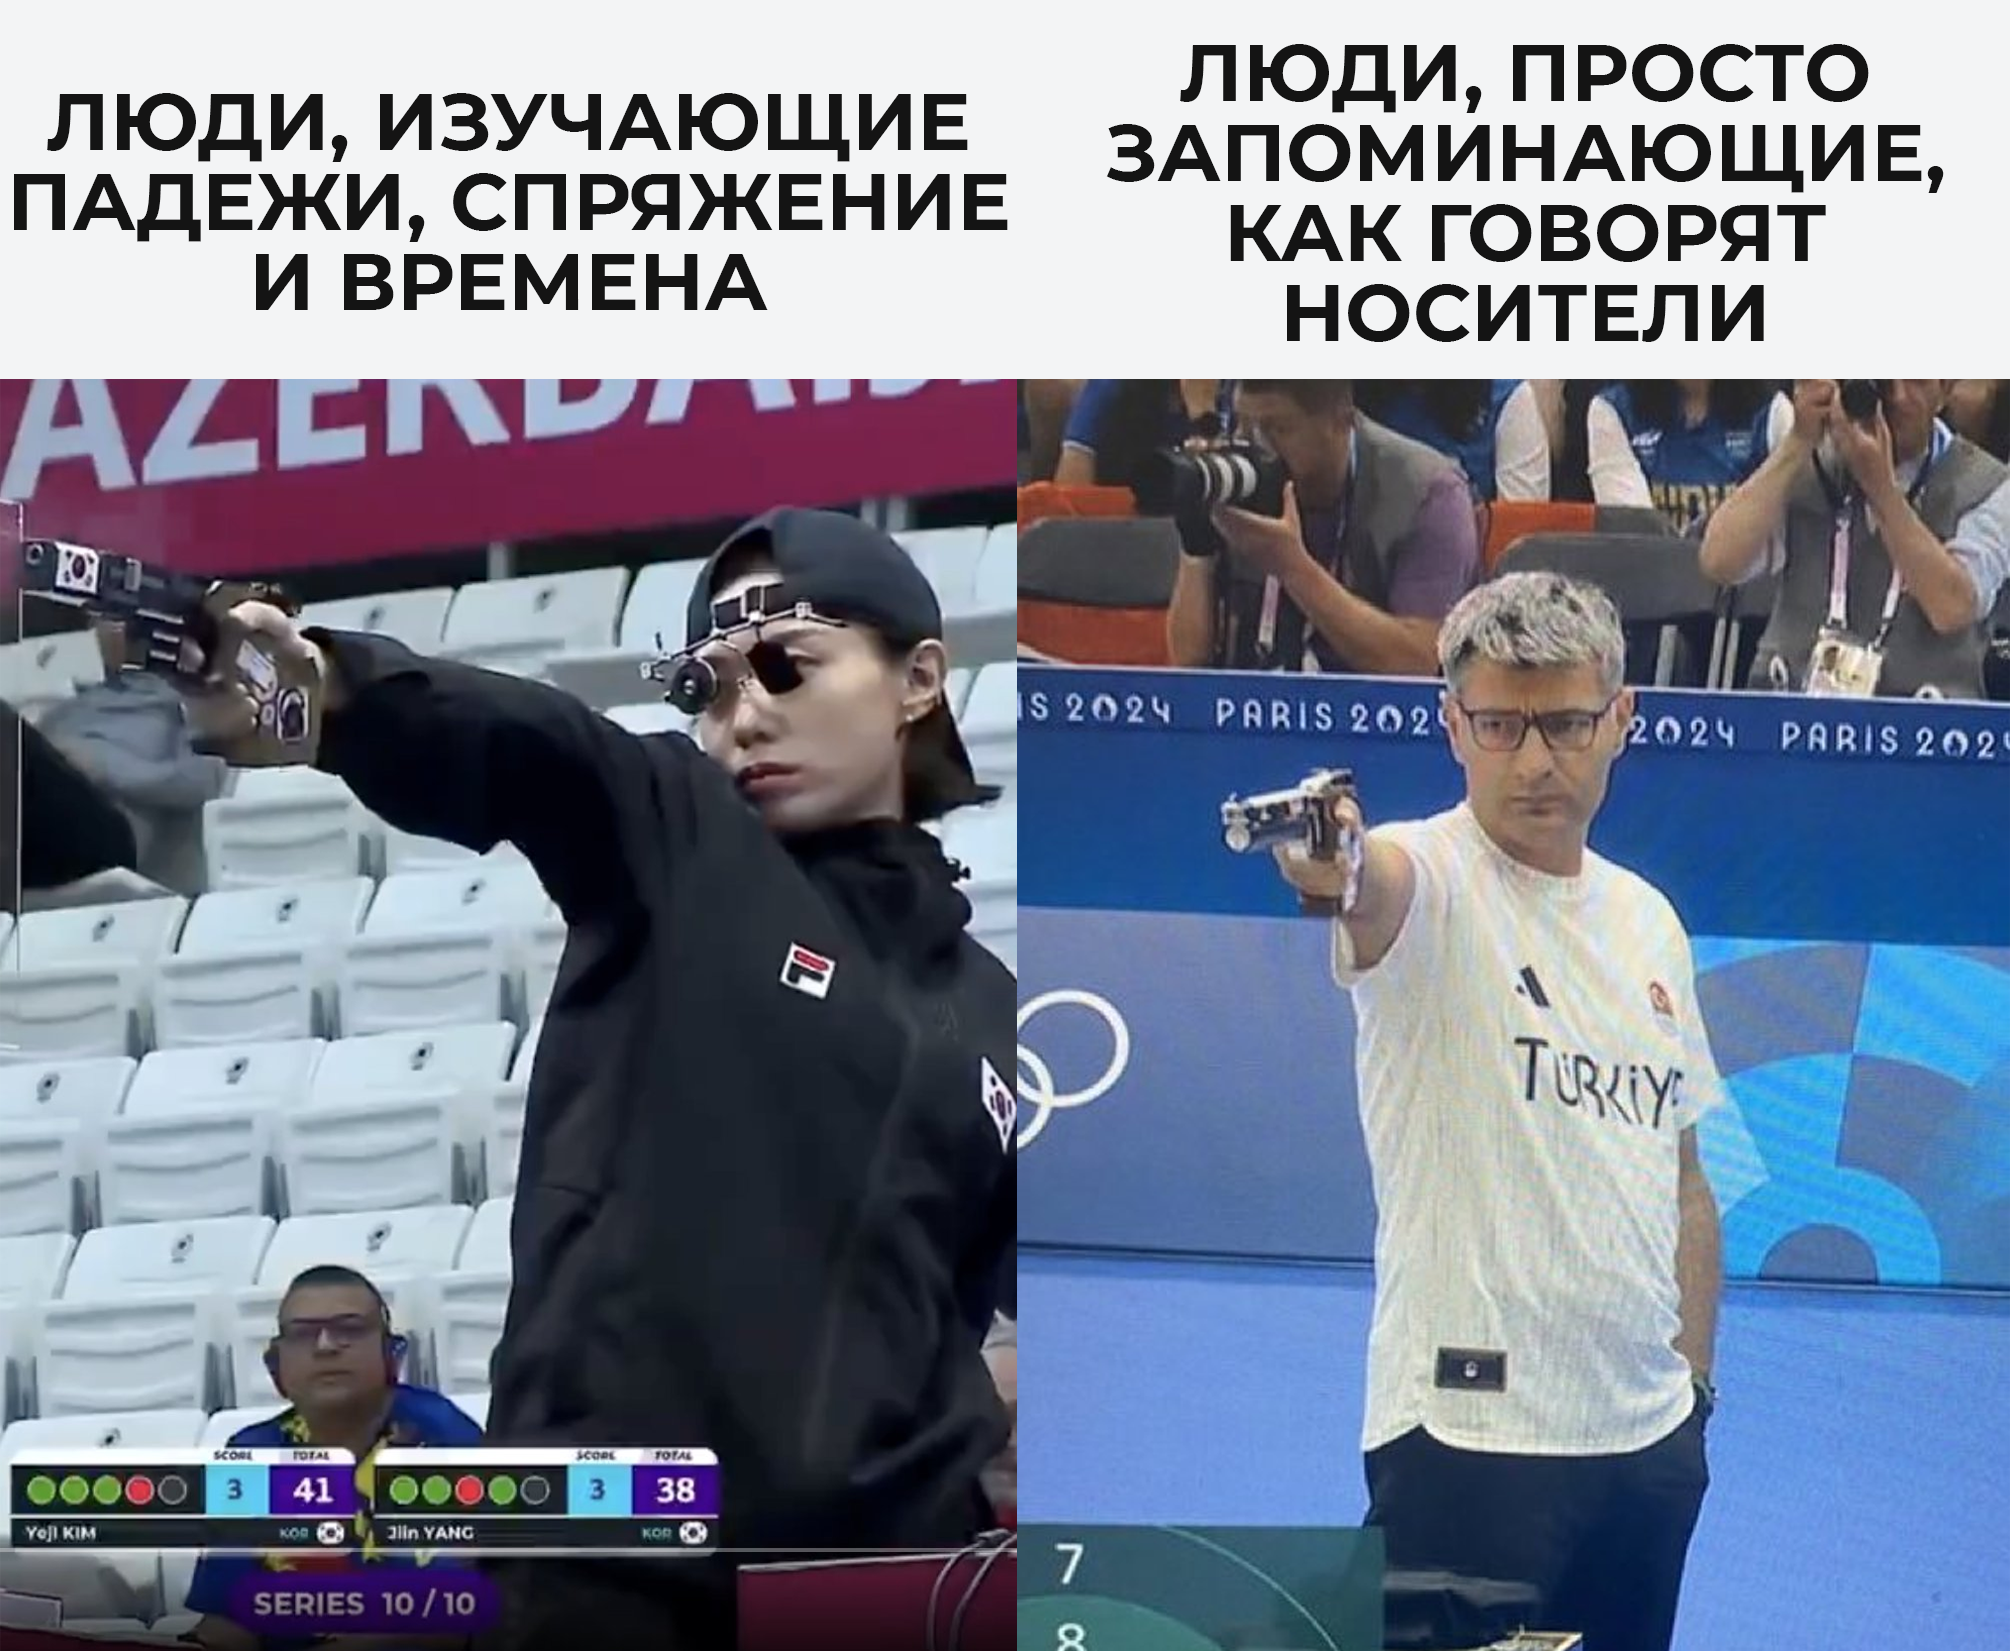
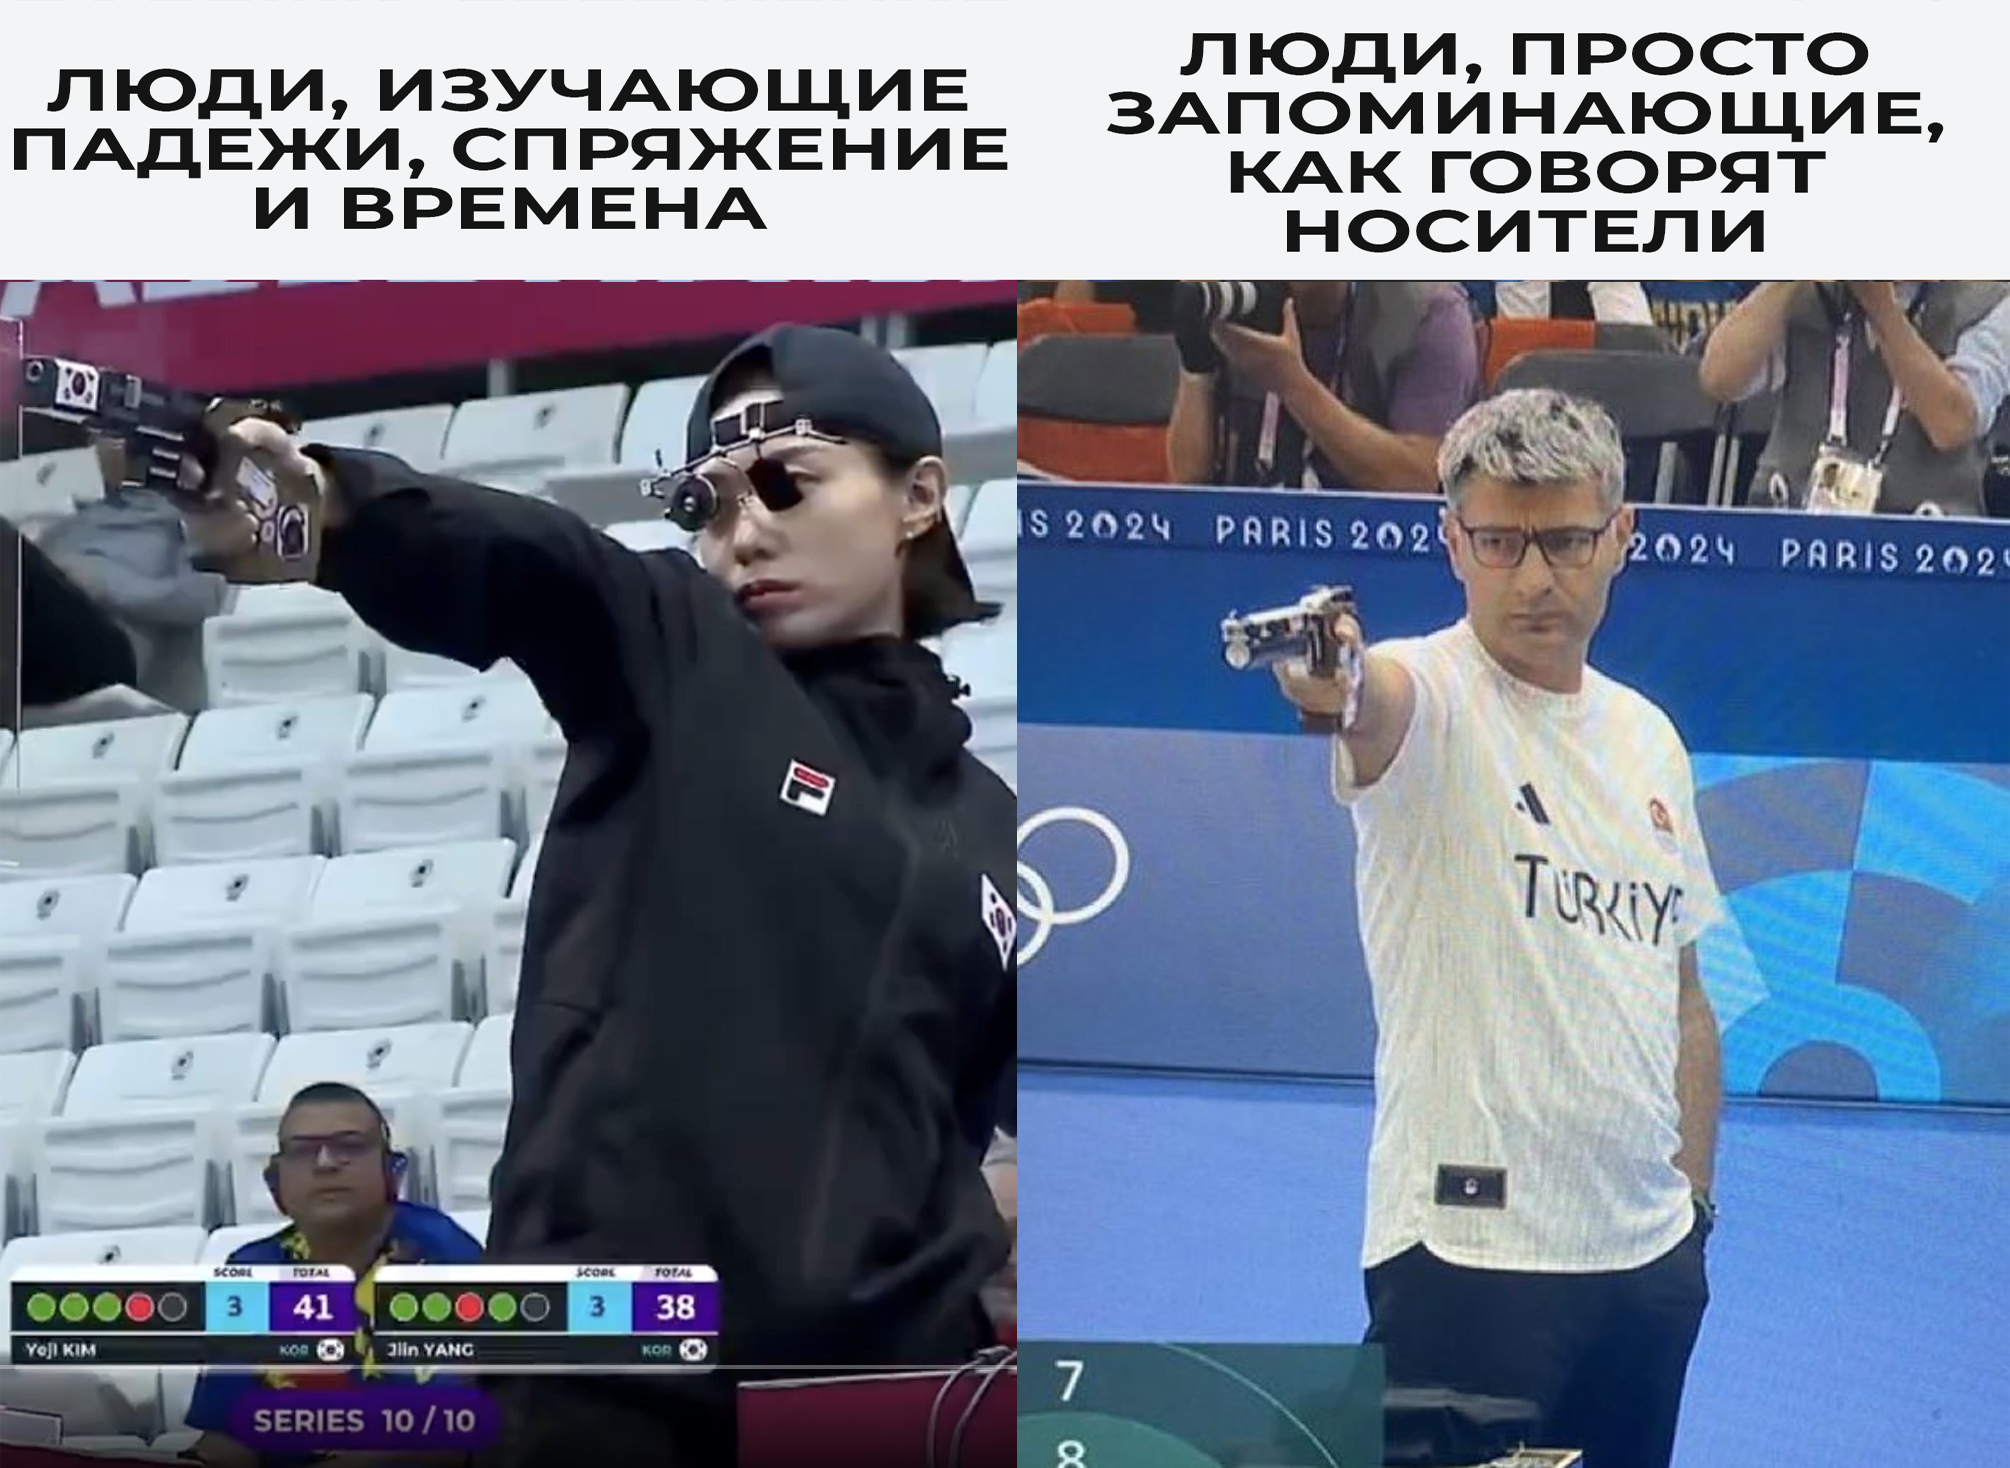
refactor: change basic layout to use selectors for css effects (Sun, Sep 15, 2024 09:34:33 PM)

diff --git a/cssMemeSlider/style.css b/cssMemeSlider/style.css
@@ -10,35 +10,35 @@
   display: flex;
   align-items: center;
   justify-content: center;
-  padding: 20px 100px;
+  padding: 20px 100px 0;
 }
 
 .slider-wrapper {
   width: 100%;
+  height: 500px;
   overflow: hidden;
 }
 
-.img {
-  width: 100%;
-  height: auto;
-  border-radius: 2%;
-  object-fit: fill;
+.slides {
+  position: relative;
+  width: 400%;
+  max-height: 450px;
+  display: flex;
 }
 
 input[name="meme"] {
   display: none;
 }
 
-.slides {
-  position: relative;
-  width: 400%;
-  height: 100%;
-  display: flex;
-}
-
 .slide {
   width: 25%;
   transition: all 0.6s ease;
+}
+
+.img {
+  width: 100%;
+  max-height: 430px;
+  border-radius: 2%;
 }
 
 #meme1:checked ~ .slide1 {
@@ -57,39 +57,27 @@ input[name="meme"] {
   margin-left: -75%;
 }
 
-.slider-info {
-  display: flex;
-  justify-content: space-between;
-  padding: 10px;
-}
-
-.slider-text {
-  display: flex;
-  position: relative;
-  overflow: hidden;
-  width: 400%;
-  height: 100%;
-  gap: 20px;
-  flex-basis: 35%;
-}
-
-.slider-controls {
-  display: flex;
-  justify-content: space-between;
+label {
+  transition: opacity 0.5s ease;
 }
 
 .meme-text {
-  white-space: nowrap;
-  width: 100%;
+  position: absolute;
+  /* left: 20px; */
+  bottom: -34px;
+  opacity: 0;
   font-family: "Courier New", Courier, monospace;
-  font-size: 32px;
+  font-size: 24px;
+  line-height: 32px;
   color: white;
 }
 
 .control {
-  width: 20px;
-  height: 20px;
-  border: 3px solid rgb(114, 114, 210);
+  position: absolute;
+  bottom: -30px;
+  width: 10px;
+  height: 10px;
+  border: 2px solid rgb(114, 114, 210);
   border-radius: 50%;
   margin: 6px;
   cursor: pointer;
@@ -97,9 +85,37 @@ input[name="meme"] {
   transition: all 0.4s ease;
 }
 
-.control:active {
-  background-color: beige;
-  border: 4px solid beige;
+.control1 {
+  left: calc(25% - 79px);
+}
+
+.control2 {
+  left: calc(25% - 59px);
+}
+.control3 {
+  left: calc(25% - 39px);
+}
+.control4 {
+  left: calc(25% - 19px);
+}
+
+.control:hover {
+  background-color: white;
+  border: 2px solid white;
+}
+
+#meme1:checked ~ .meme-text1,
+#meme2:checked ~ .meme-text2,
+#meme3:checked ~ .meme-text3,
+#meme4:checked ~ .meme-text4 {
+  opacity: 1;
+}
+
+#meme1:checked ~ .control1,
+#meme2:checked ~ .control2,
+#meme3:checked ~ .control3,
+#meme4:checked ~ .control4 {
+  background-color: rgb(47, 47, 47);
 }
 
 @media (max-width: 767.98px) {
@@ -107,23 +123,27 @@ input[name="meme"] {
     padding: 20px 30px;
   }
 
-  .slider-info {
-    flex-direction: column;
-    align-items: center;
-    padding: 0;
+  .control {
+    left: 11%;
+    transform: translateX(50%);
+  }
+
+  .control1 {
+    left: calc(11.5% - 30px);
+  }
+
+  .control2 {
+    left: calc(11.5% - 10px);
+  }
+  .control3 {
+    left: calc(11.5% + 10px);
+  }
+  .control4 {
+    left: calc(11.5% + 30px);
   }
 
   .meme-text {
-    font-size: 24px;
-  }
-
-  .slider-controls {
-    order: 0;
-    margin: 30px 0;
-  }
-
-  .slider-text {
-    order: 2;
-    align-self: self-start;
+    font-size: 16px;
+    bottom: -60px;
   }
 }

diff --git a/cssMemeSlider/index.html b/cssMemeSlider/index.html
@@ -20,43 +20,40 @@
               alt="Мем про турецкого стрелка"
               class="img"
             />
-            </div>
-					<div class="slide">
-						<img
-							src="./images/meme-2.png"
-							alt="Мем про турецкого стрелка"
-							class="img"
-						/>
-					</div>
-					<div class="slide">
-						<img
-							src="./images/meme-3.png"
-							alt="Мем про турецкого стрелка"
-							class="img"
-						/>
-					</div>
-					<div class="slide">
-						<img
-							src="./images/meme-4.png"
-							alt="Мем про турецкого стрелка"
-							class="img"
-						/>
-					</div>
           </div>
-          <div class="slider-info">
-            <div class="slider-text">
-              <label for="meme1" class="meme-text meme-text1">Номер один</label>
-              <label for="meme2" class="meme-text meme-text2">Номер два</label>
-              <label for="meme3" class="meme-text meme-text3">Номер три</label>
-              <label for="meme4" class="meme-text meme-text4">Номер четыре</label>
-            </div>
-            <div class="slider-controls">
-              <label for="meme1" class="control control1"></label>
-              <label for="meme2" class="control"></label>
-              <label for="meme3" class="control"></label>
-              <label for="meme4" class="control"></label>
-            </div>
+          <div class="slide">
+            <img
+              src="./images/meme-2.png"
+              alt="Мем про турецкого стрелка"
+              class="img"
+            />
           </div>
+          <div class="slide">
+            <img
+              src="./images/meme-3.png"
+              alt="Мем про турецкого стрелка"
+              class="img"
+            />
+          </div>
+          <div class="slide">
+            <img
+              src="./images/meme-4.png"
+              alt="Мем про турецкого стрелка"
+              class="img"
+            />
+          </div>
+          <label for="meme1" class="meme-text meme-text1"
+            >Крепче, чем кофе</label
+          >
+          <label for="meme2" class="meme-text meme-text2">Быстрее ветра</label>
+          <label for="meme3" class="meme-text meme-text3"
+            >Без лишних слов</label
+          >
+          <label for="meme4" class="meme-text meme-text4">Батя</label>
+          <label for="meme1" class="control control1"></label>
+          <label for="meme2" class="control control2"></label>
+          <label for="meme3" class="control control3"></label>
+          <label for="meme4" class="control control4"></label>
         </div>
       </section>
     </div>
